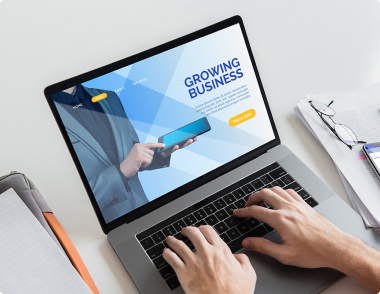
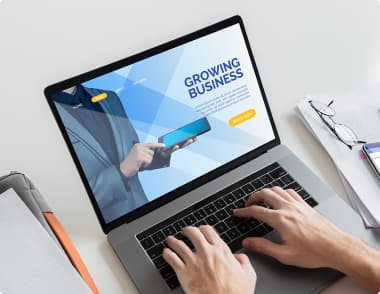
Добавлено оформление фона

diff --git a/index.html b/index.html
@@ -55,30 +55,29 @@
       <section class="competencies container">
         
           <h2 class="visually-hidden">Наши компетенции</h2>
-          <!-- SVG картинки не вставлял т.к. Репета на вебинаре сказал, что они будут добавляться с помощью CSS -->
           <ul class="competencies-list list">
-            <li class="item">
+            <li class="item satellite-icon">
               <h3 class="title">Внимание к деталям</h3>
               <p class="description">
                 Идейные соображения, а также начало повседневной работы по
                 формированию позиции.
               </p>
             </li>
-            <li class="item">
+            <li class="item clock-icon">
               <h3 class="title">Пунктуальность</h3>
               <p class="description">
                 Задача организации, в особенности же рамки и место обучения
                 кадров влечет за собой.
               </p>
             </li>
-            <li class="item">
+            <li class="item diagram-icon">
               <h3 class="title">Планирование</h3>
               <p class="description">
                 Равным образом консультация с широким активом в значительной
                 степени обуславливает.
               </p>
             </li>
-            <li class="item">
+            <li class="item astronaut-icon">
               <h3 class="title">Современные технологии</h3>
               <p class="description">
                 Значимость этих проблем настолько очевидна, что реализация

diff --git a/css/style.css b/css/style.css
@@ -123,10 +123,24 @@ img {
 
 /* Hero */
 .hero {
-  background-color: grey;
-  text-align: center;
+  
+  max-width: 1600px;
+  height: 600px; 
+  margin-left: auto; 
+  margin-right: auto;
+  padding-top: 200px;
 
-  outline: 2px solid red;
+  background-image: linear-gradient(
+  to right,
+   rgba(47, 48, 58, 0.8),
+   rgba(47, 48, 58, 0.8)
+   ),
+  url(../images/hero-bg-image.jpg);
+  background-color: rgb(47, 48, 58);
+  background-size: cover;
+  background-position: center;
+  
+  text-align: center;
 }
 
 .hero-title {
@@ -172,6 +186,31 @@ img {
 }
 .competencies-list .item {
   width: 270px;
+}
+
+.competencies-list .item::before {
+  content: '';
+  display: block; 
+  height: 120px; 
+  margin-bottom: 30px;
+  background-color: #F5F4FA;
+ 
+  background-repeat: no-repeat;
+  background-position: center;
+}
+
+.satellite-icon::before {
+  background-image: url(../images/satellite-plate.svg);
+}
+
+.clock-icon::before {
+  background-image: url(../images/clock.svg);
+}
+
+.diagram-icon::before { background-image: url(../images/diagram.svg);}
+
+.astronaut-icon::before {
+  background-image: url(../images/astronaut.svg);
 }
 
 .competencies-list .item:not(:last-child) {
